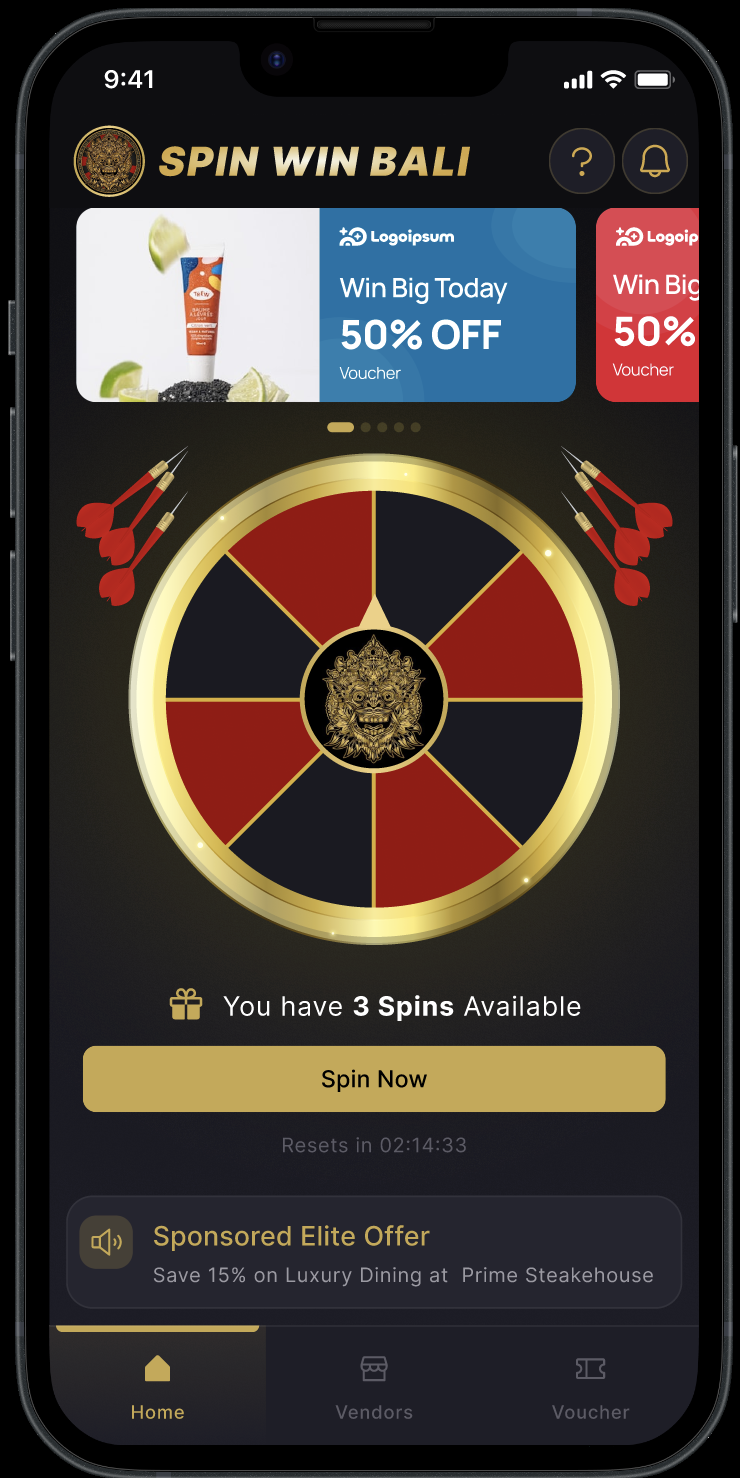
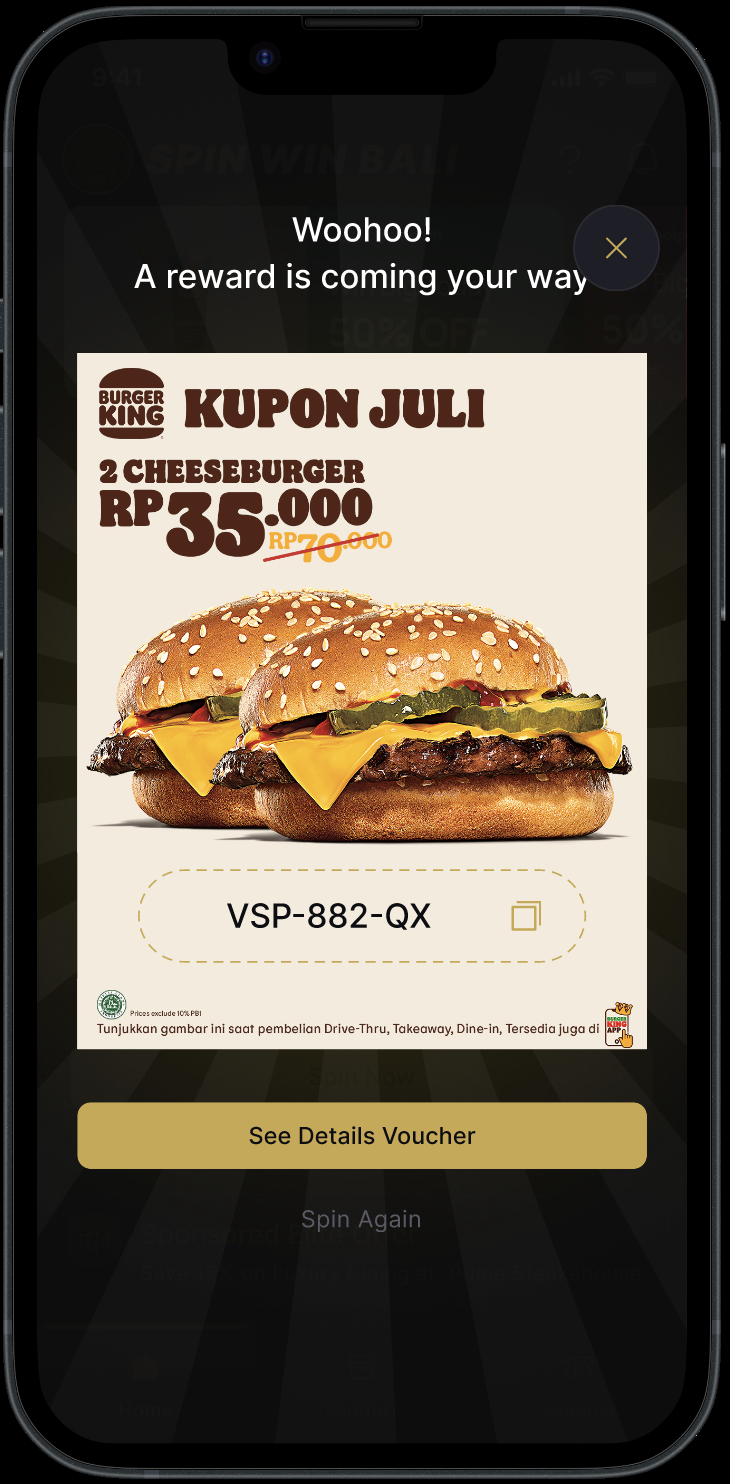
update

diff --git a/data/projects.js b/data/projects.js
@@ -362,7 +362,7 @@ export const projects = [
   },
   {
     id: "mahaputra-customer",
-    published: true,
+    published: false,
     title: "Mahaputra Customer",
     subtitle: "",
     period: "",
@@ -391,7 +391,7 @@ export const projects = [
   },
   {
     id: "mahaputra-seller",
-    published: true,
+    published: false,
     title: "Mahaputra Merchant",
     subtitle: "",
     period: "",
@@ -428,7 +428,7 @@ export const projects = [
   },
   {
     id: "otomedia",
-    published: true,
+    published: false,
     title: "Otomedia",
     subtitle: "",
     period: "",
@@ -455,7 +455,7 @@ export const projects = [
   },
   {
     id: "sewa",
-    published: true,
+    published: false,
     title: "Sewa App",
     subtitle: "",
     period: "",
@@ -487,7 +487,7 @@ export const projects = [
   },
   {
     id: "waterbom",
-    published: true,
+    published: false,
     title: "Waterbom",
     subtitle: "",
     period: "",
@@ -521,10 +521,16 @@ export const projects = [
     tech: ["Anthropic API", "Flutter", "Next.js"],
     description: "SpinWin is a gamified giveaway voucher platform. Customers spin a wheel in a mobile app to win vouchers redeemable at partner vendor locations. Admins configure campaigns and a single win-rate percentage. vendors accept or reject redemptions in person via a QR-driven landing page",
     description_points: [],
-    thumbnail: "assets/spinwin/thumbnail.jpg",
+    thumbnail: "assets/spinwin/thumb.jpg",
     type: "mobile",
     video: null,
-    screenshots: [],
+    screenshots: [
+      "assets/spinwin/1.png",
+      "assets/spinwin/2.png",
+      "assets/spinwin/3.png",
+      "assets/spinwin/4.png",
+      "assets/spinwin/5.png",
+    ],
     appStoreUrl: null,
     designUrl: null,
     playStoreUrl: null,

diff --git a/components/blog.js b/components/blog.js
@@ -1,22 +1,22 @@
 const posts = [
-  {
-    title: 'Article Title — fill in from company blog',
-    category: 'Mobile Development',
-    date: '2025-01-01',
-    dateLabel: 'Jan 1, 2025',
-    excerpt: 'Short excerpt or summary of the article goes here.',
-    url: '#',
-    thumbnail: null,
-  },
-  {
-    title: 'Article Title — fill in from company blog',
-    category: 'Flutter',
-    date: '2025-01-01',
-    dateLabel: 'Jan 1, 2025',
-    excerpt: 'Short excerpt or summary of the article goes here.',
-    url: '#',
-    thumbnail: null,
-  },
+  // {
+  //   title: 'Article Title — fill in from company blog',
+  //   category: 'Mobile Development',
+  //   date: '2025-01-01',
+  //   dateLabel: 'Jan 1, 2025',
+  //   excerpt: 'Short excerpt or summary of the article goes here.',
+  //   url: '#',
+  //   thumbnail: null,
+  // },
+  // {
+  //   title: 'Article Title — fill in from company blog',
+  //   category: 'Flutter',
+  //   date: '2025-01-01',
+  //   dateLabel: 'Jan 1, 2025',
+  //   excerpt: 'Short excerpt or summary of the article goes here.',
+  //   url: '#',
+  //   thumbnail: null,
+  // },
 ];
 
 export function renderBlog() {
